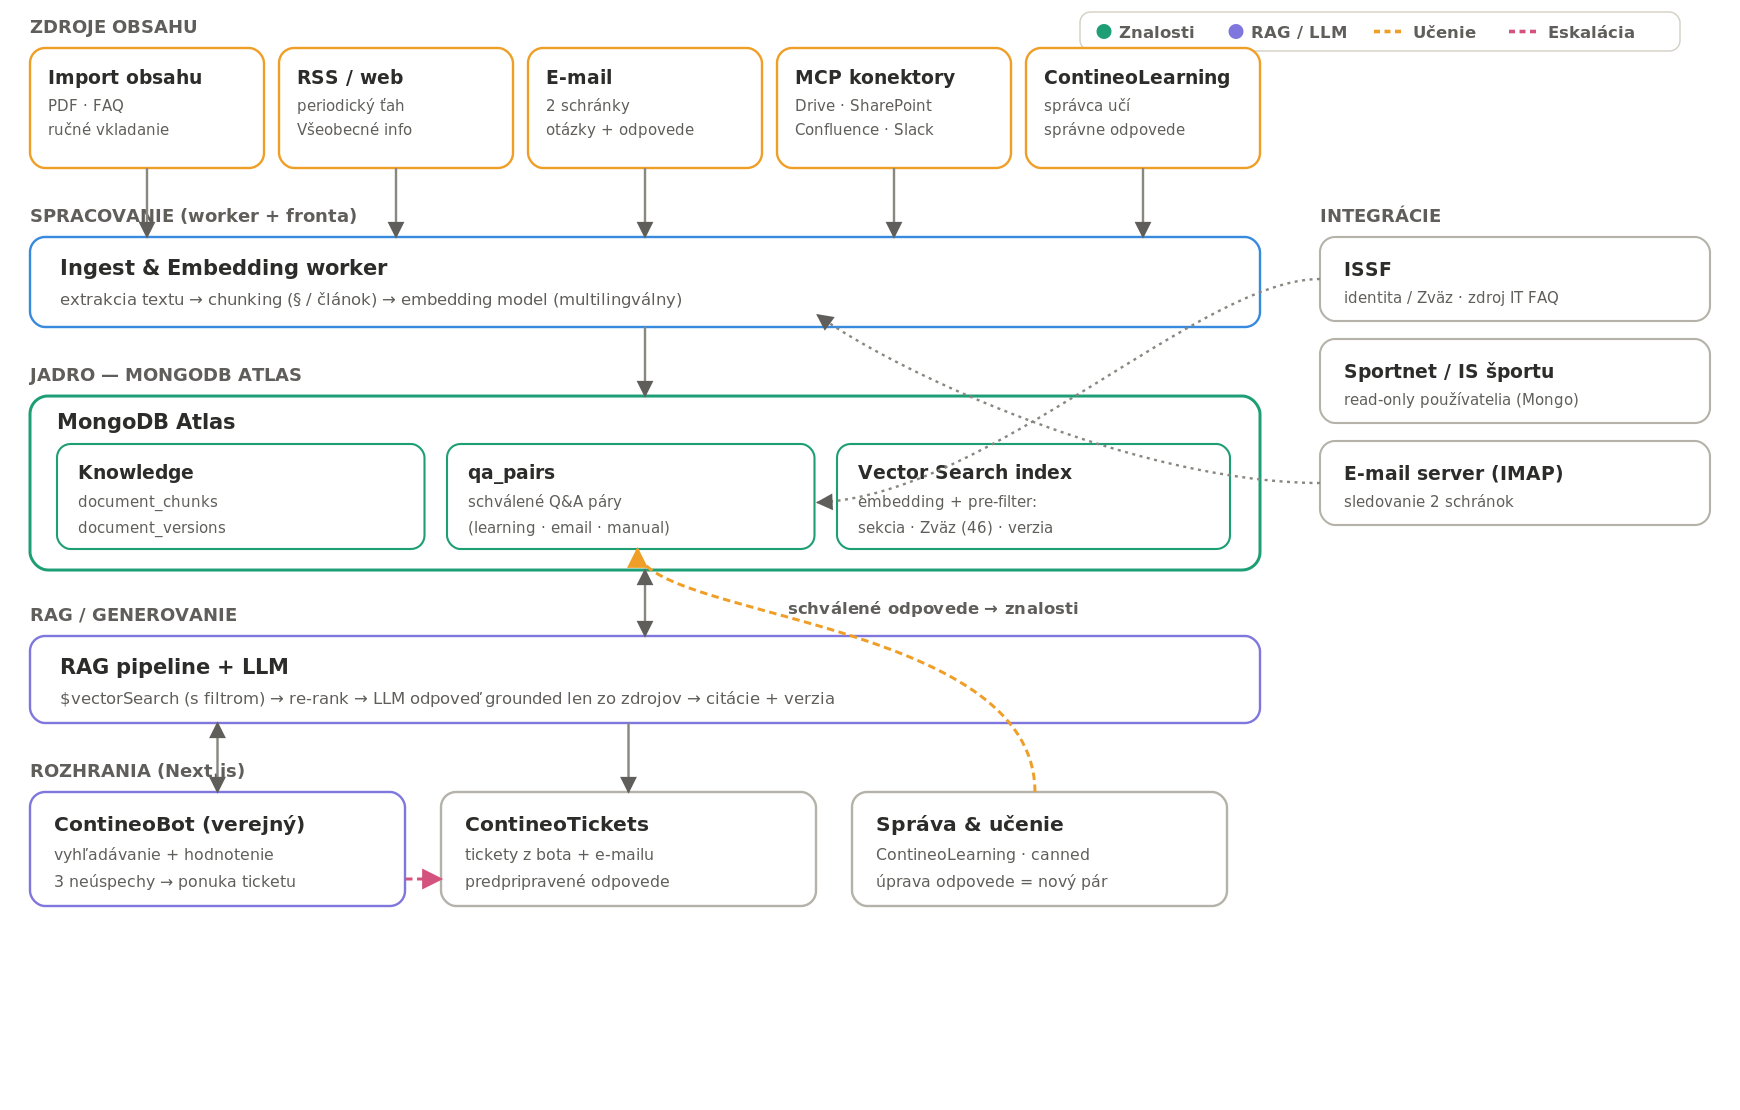
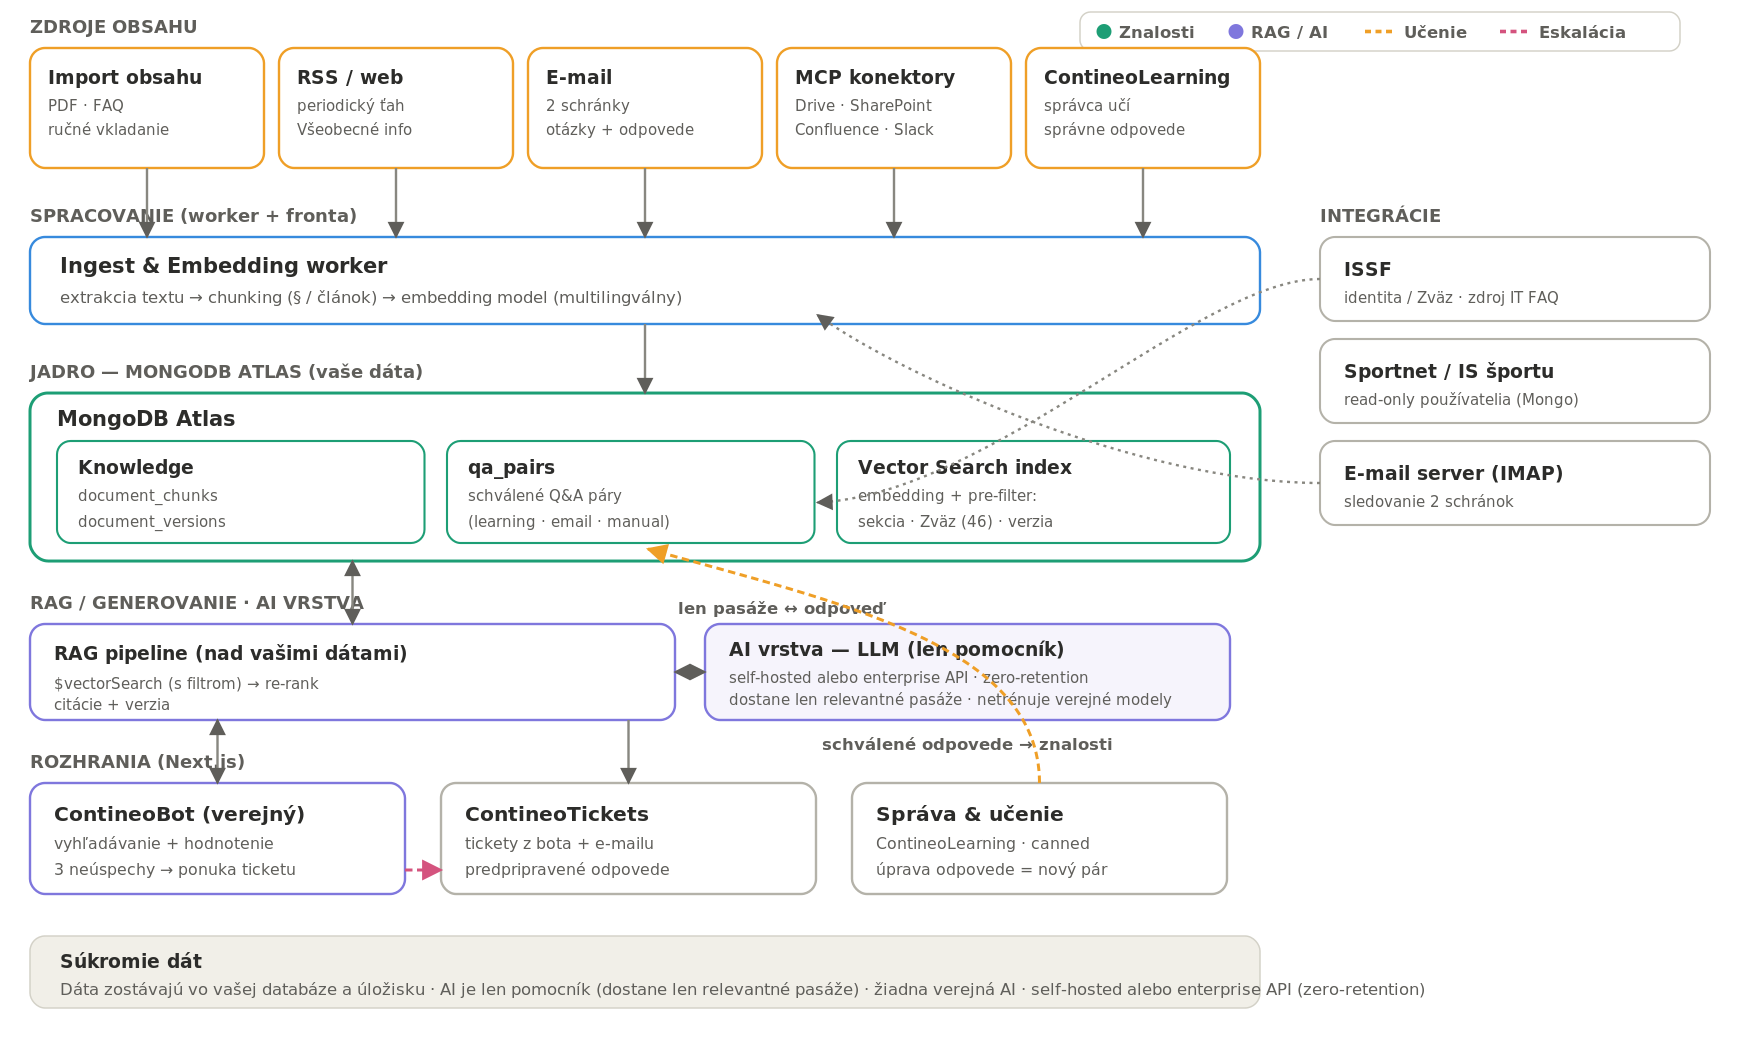
Diagram: make AI layer explicit + data-privacy boundary on Technology page

diff --git a/web/lib/dictionaries.js b/web/lib/dictionaries.js
@@ -190,7 +190,7 @@ export const dictionaries = {
       back: "Späť na hlavnú stránku",
       architectureTitle: "Architektúra a dátový tok",
       architectureCaption:
-        "Zdroje obsahu → spracovanie a embeddingy → MongoDB Atlas (Vector Search) → RAG + LLM → rozhrania. Vrátane učiaceho cyklu a eskalácie na ticket.",
+        "Zdroje obsahu → spracovanie a embeddingy → MongoDB Atlas (Vector Search) → RAG → rozhrania. AI vrstva (LLM) je len pomocník — dostane len relevantné pasáže, dáta zostávajú vo vašej databáze a úložisku (self-hosted alebo enterprise API so zero-retention). Vrátane učiaceho cyklu a eskalácie na ticket.",
       pillarsTitle: "Kľúčové piliere",
       pillars: [
         { icon: "search", title: "RAG + Vector Search", text: "Sémantické vyhľadávanie cez MongoDB Atlas Vector Search s filtrom na zdroj, tému a platnú verziu. Odpoveď generuje LLM len z nájdených pasáží." },
@@ -481,7 +481,7 @@ export const dictionaries = {
       back: "Back to home",
       architectureTitle: "Architecture and data flow",
       architectureCaption:
-        "Content sources → processing and embeddings → MongoDB Atlas (Vector Search) → RAG + LLM → interfaces. Including the learning loop and ticket escalation.",
+        "Content sources → processing and embeddings → MongoDB Atlas (Vector Search) → RAG → interfaces. The AI layer (LLM) is only a helper — it receives only the relevant passages, your data stays in your database and storage (self-hosted or enterprise API with zero-retention). Including the learning loop and ticket escalation.",
       pillarsTitle: "Key pillars",
       pillars: [
         { icon: "search", title: "RAG + Vector Search", text: "Semantic search via MongoDB Atlas Vector Search, filtered by source, topic and the valid version. The LLM answers only from the retrieved passages." },